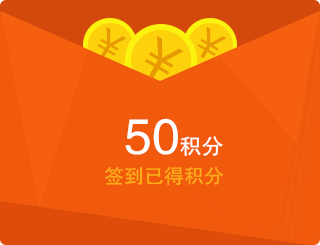
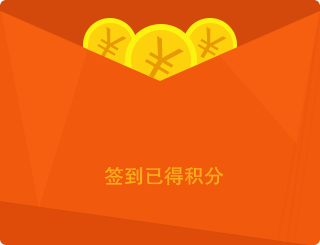
每日签到送积分 头 显示积分 修改

Changed region(s): [[0.375, 0.4857, 0.7188, 0.6571]]

diff --git a/index.html b/index.html
@@ -728,13 +728,19 @@
                 </div>
             </div>
             <!---------------------------------会员中心每日任务-------------------------------------->
-            <!---------------------------------会员中心每日任务签到---------------------------------->
-            <div class="panel" id="mrrw_qiandao" data-header="meiriqiandao" data-footer="none" style="background-color:#ff5f53;">
+            <!---------------------------------会员中心每日任务签到送积分---------------------------------->
+            <div class="panel" id="mrrw_qiandao" data-header="meiriqiandao" data-footer="none" style="background-color:#ff5f53;" data-load="JFshow">
                 <div style=" margin-top:-50px;"><img style="width:50%; margin:25%;" src="img/mrrw_qiandao/qiadao_wenzi.png" /></div>
-                <div style=" margin-top:-50px;"><img style="width:60%; margin:20%;" src="img/mrrw_qiandao/qiandao_jifen.png" /></div>
+                <div style=" margin-top:-50px;"><img style="width:60%; margin:20%;" src="img/mrrw_qiandao/qiandao_jifen.png" /><div style="color:#fff;font-size:30px;position:relative;top:-245px;left:250px;"><span id="jfqd_jfxs"></span><span style="margin-left:5px;;font-size:20px;font-family:'微软雅黑';position:relative;top:-3px;">积分</span></div></div>
                 <input style="width:70%; margin:15%;" type="image" src="img/mrrw_qiandao/qiandao_anniu.png" name="btnQianDao" id="btnQianDao" />
             </div>
-            <!---------------------------------会员中心每日任务签到---------------------------------->
+            <script>
+                function JFshow() {
+                    $("#jfqd_jfxs").text(window.localStorage["score"]);
+                }
+               
+            </script>
+            <!---------------------------------会员中心每日任务签到送积分---------------------------------->
             <!---------------------------------会员中心积分记录-------------------------------------->
             <div id="hyjfjl" title="积分记录" class="panel" data-header="hhyjfjl" data-load="jfjl" data-footer="none" data-tab="footer_zhuye">
                 <div>
@@ -1867,7 +1873,7 @@
                 <a href="#hyjfjl" style="float: right; margin: 4% 15px 0 0; color: white; font-size: 15px; ">积分记录</a>
             </header><!---------------------------------每日任务------------->
             <header id="meiriqiandao">
-                <a href="#hymrrw" style="margin-left:10px; display:inline-block;">
+                <a href="#hymrrw" style="margin-left:10px; display:block;">
                     <span style="display:block;margin-bottom:-40px; width:60px;height:44px;background-image:url(img/jfsc_images/fanhui.png); "></span>
                 </a>
                 <h1>签到送积分</h1>
